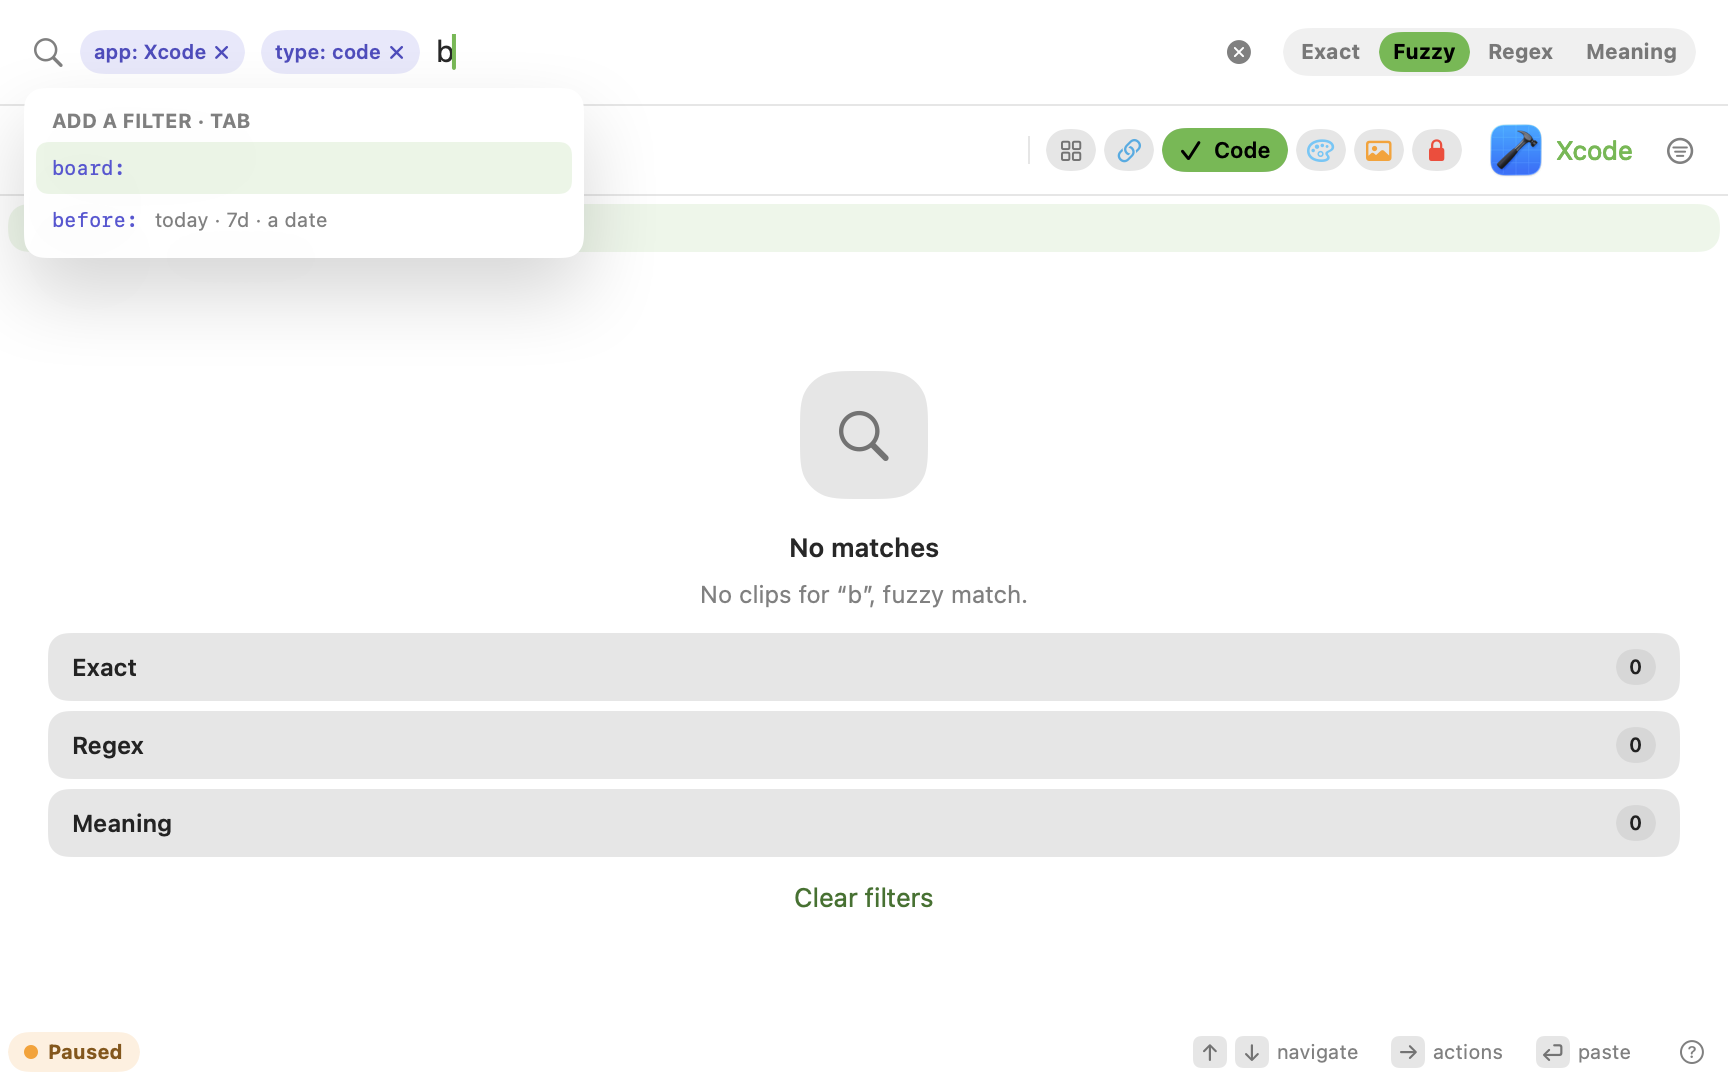
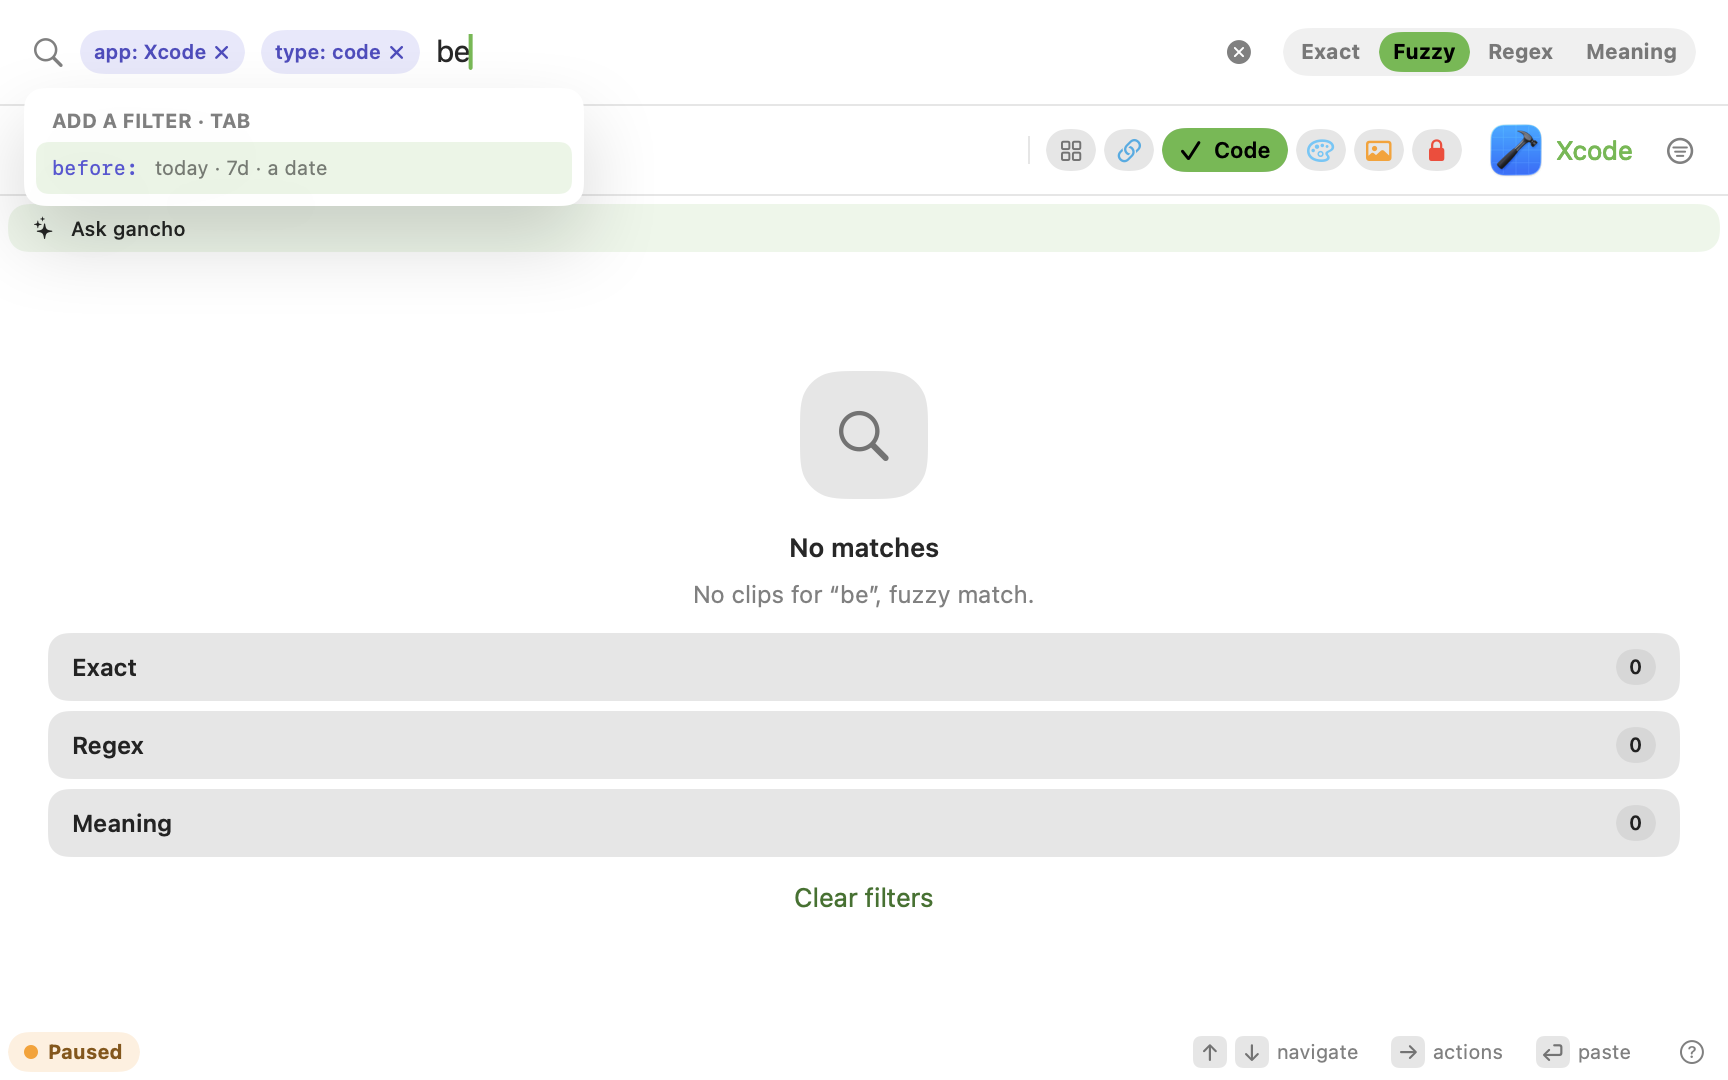
fix(search): review round for phase 4 (GC-V4-1, GC-08, GC-07)
- Clear filters also clears the device:, before: and pinned filters. Before,
  a token-only filter kept the list empty and the button in place.
- Turning Private Mode on, or semantic search off, while Meaning is selected
  falls back to Fuzzy, instead of leaving a hidden mode that answered nothing.
- No-results alternatives are keyed to the query they answer, so a stale
  probe never shows, or applies with ↓, for the next keystroke.
- Filter keys are offered from the second letter, so ordinary words no
  longer open the popover or take Tab (owner decision).
- A new auto-off choice applies to the Private Mode already on: the deadline
  moves to its start plus the new duration (owner decision).
- Mode titles are one LocalizedStringResource each instead of three mappings.
- filterOnlySearch's filter check is split in three, so the CI toolchain
  type-checks it in time.

Changed region(s): [[0.0, 0.1528, 0.3438, 0.2444], [0.4062, 0.5194, 0.5938, 0.5806], [0.25, 0.0306, 0.2812, 0.0611]]

diff --git a/Apps/GanchoMac/PanelView.swift b/Apps/GanchoMac/PanelView.swift
@@ -80,8 +80,10 @@ struct PanelView: View {
     @State private var panelOpenCount = 0
     /// The `device:` token's choices, read when the panel opens.
     @State private var deviceNames: [String] = []
-    /// The other modes and scopes, counted, while the query matches nothing.
+    /// The other modes and scopes, counted, while the query matches nothing,
+    /// with the query they answer so a stale probe never shows for a new one.
     @State private var alternatives: [PanelAlternativeResult] = []
+    @State private var alternativesKeyFound: PanelAlternativesKey?
     /// Re-read when defaults change, so a newly recorded shortcut shows at once.
     @State private var privateModeShortcut = KeyboardShortcuts.getShortcut(
         for: .togglePrivateMode)?.description
@@ -355,13 +357,15 @@ struct PanelView: View {
                 cancelPendingPaste()
             }
             .onChange(of: search.meaningEnabled) { _, _ in Task { await search.refresh() } }
-            .onChange(of: model.preferences.isPrivateModePaused) { _, _ in
+            .onChange(of: model.preferences.isPrivateModePaused) { _, paused in
+                search.meaningAvailabilityChanged(!paused && model.intelligence.semanticSearch)
                 search.cancelMeaningSearch()
                 Task { await search.refresh() }
             }
             .onChange(of: model.intelligence.semanticSearch) { _, enabled in
                 search.cancelMeaningSearch()
-                if !enabled { search.meaningEnabled = false }
+                search.meaningAvailabilityChanged(
+                    enabled && !model.preferences.isPrivateModePaused)
                 Task { await search.refresh() }
             }
             .onChange(of: search.mode) { _, _ in Task { await search.refresh() } }
@@ -785,7 +789,7 @@ struct PanelView: View {
                     groups: search.groups,
                     items: search.filtered,
                     searchMode: search.searchMode,
-                    alternatives: alternatives,
+                    alternatives: currentAlternatives,
                     scopeName: selectedBoardName,
                     applyAlternative: { search.apply($0) },
                     isPrivateMode: model.preferences.isPrivateModePaused,
@@ -793,11 +797,7 @@ struct PanelView: View {
                     layout: layout,
                     columns: galleryColumns,
                     onColumnsChange: { galleryColumns = $0 },
-                    clearFilters: {
-                        search.kindFilter = .all
-                        search.selectedBoardID = nil
-                        search.selectedSourceAppBundleID = nil
-                    },
+                    clearFilters: { search.clearFilters() },
                     importHistory: { presentedSheet = .importHistory },
                     onUserScroll: { search.endNewestFollow() },
                     row: { item in clipRow(item: item) })
@@ -1421,8 +1421,12 @@ struct PanelView: View {
         }
     }
 
+    private var currentAlternatives: [PanelAlternativeResult] {
+        alternativesKeyFound == alternativesKey ? alternatives : []
+    }
+
     private var bestAlternative: PanelAlternativeResult? {
-        search.filtered.isEmpty ? PanelAlternativeResult.best(of: alternatives) : nil
+        search.filtered.isEmpty ? PanelAlternativeResult.best(of: currentAlternatives) : nil
     }
 
     private var selectedBoardName: String? {
@@ -1443,6 +1447,7 @@ struct PanelView: View {
 
     /// Debounced like a keystroke: only a query that stays empty is probed.
     private func probeAlternatives() async {
+        let key = alternativesKey
         alternatives = []
         guard search.filtered.isEmpty, !search.query.isEmpty,
             search.meaning.status != .loading
@@ -1454,6 +1459,7 @@ struct PanelView: View {
                 && !model.preferences.isPrivateModePaused)
         guard !Task.isCancelled else { return }
         alternatives = found
+        alternativesKeyFound = key
     }
 
     private func refreshDeviceNames() async {

diff --git a/Apps/GanchoMac/PanelNoResults.swift b/Apps/GanchoMac/PanelNoResults.swift
@@ -17,7 +17,7 @@ struct PanelAlternativesKey: Equatable {
 }
 
 extension PanelSearchAlternative {
-    var title: LocalizedStringKey {
+    var title: LocalizedStringResource {
         switch self {
         case .mode(let mode): mode.title
         case .allBoards: "All boards"
@@ -38,16 +38,6 @@ extension PanelSearchAlternative {
         switch self {
         case .mode(let mode): "no-results-alt-\(mode.rawValue)"
         case .allBoards: "no-results-alt-all-boards"
-        }
-    }
-
-    var localizedTitle: String {
-        switch self {
-        case .mode(.exact): String(localized: "Exact")
-        case .mode(.fuzzy): String(localized: "Fuzzy")
-        case .mode(.regex): String(localized: "Regex")
-        case .mode(.meaning): String(localized: "Meaning")
-        case .allBoards: String(localized: "All boards")
         }
     }
 }
@@ -108,7 +98,8 @@ struct PanelAlternativeList: View {
                 }
                 .buttonStyle(.plain)
                 .accessibilityLabel(
-                    Text(verbatim: "\(result.alternative.localizedTitle), \(result.total)")
+                    Text(
+                        verbatim: "\(String(localized: result.alternative.title)), \(result.total)")
                 )
                 .accessibilityAddTraits(isBest ? .isSelected : [])
                 .accessibilityIdentifier(result.alternative.identifier)
@@ -126,7 +117,7 @@ struct PanelAlternativeStage: View {
     var body: some View {
         VStack(alignment: .leading, spacing: GanchoTokens.Spacing.xs) {
             Text(
-                verbatim: result.alternative.localizedTitle + " · "
+                verbatim: String(localized: result.alternative.title) + " · "
                     + String(localized: "\(result.total) results, press ↓ to use them")
             )
             .panelFont(.caption, .bold)

diff --git a/Packages/GanchoKit/Tests/GanchoAppCoreTests/CaptureLifecycleControllerTests.swift b/Packages/GanchoKit/Tests/GanchoAppCoreTests/CaptureLifecycleControllerTests.swift
@@ -114,6 +114,30 @@
             #expect(controller.preferences.privateModeEndsAt == nil)
         }
 
+        @Test("A new auto-off choice moves the current deadline from its start")
+        func privateModeDurationChangeAppliesNow() {
+            let monitor = CaptureMonitorSpy()
+            let recorder = CaptureLifecycleRecorder()
+            recorder.privateModeDuration = nil
+            let controller = makeController(monitor: monitor, recorder: recorder)
+            controller.togglePrivateMode()
+            let start = recorder.now
+            #expect(controller.preferences.privateModeEndsAt == nil)
+
+            recorder.now = start.addingTimeInterval(600)
+            recorder.privateModeDuration = 900
+            controller.privateModeDurationChanged()
+            #expect(controller.preferences.privateModeEndsAt == start.addingTimeInterval(900))
+            #expect(controller.preferences.isPrivateModePaused)
+
+            recorder.privateModeDuration = 300
+            controller.privateModeDurationChanged()
+            #expect(!controller.preferences.isPrivateModePaused, "a deadline already past ends it")
+
+            controller.privateModeDurationChanged()
+            #expect(!controller.preferences.isPrivateModePaused, "off stays off")
+        }
+
         @Test(
             "A deadline that passed while the app was closed ends Private Mode before capture starts"
         )

diff --git a/Packages/GanchoKit/Sources/GanchoKit/SourceApps.swift b/Packages/GanchoKit/Sources/GanchoKit/SourceApps.swift
@@ -8,13 +8,14 @@ extension GRDBClipboardStore {
     /// An entirely empty request preserves the historical `search("") == []`
     /// behavior instead of turning search into a second unfiltered list API.
     func filterOnlySearch(_ query: ClipSearchQuery, limit: Int) async throws -> [ClipItem] {
-        let hasFilter =
+        // Split so the type checker stays within its time limit on older toolchains.
+        let narrowsByValue: Bool =
             query.kinds?.isEmpty == false || query.sourceAppBundleID != nil
-            || query.dateRange != nil || query.createdBefore != nil || query.deviceName != nil
-            || query.boardID != nil
-            || query.pinnedOnly || query.markedOnly || query.includedIDs != nil
-            || query.excludesSensitive
-        guard hasFilter else { return [] }
+            || query.boardID != nil || query.includedIDs != nil
+        let narrowsByTime: Bool =
+            query.dateRange != nil || query.createdBefore != nil || query.deviceName != nil
+        let narrowsByFlag: Bool = query.pinnedOnly || query.markedOnly || query.excludesSensitive
+        guard narrowsByValue || narrowsByTime || narrowsByFlag else { return [] }
 
         return try await writer.read { db in
             var sql = "SELECT \(ClipRow.metadataSelectionSQL) FROM clip WHERE clip.isArchived = 0"

diff --git a/Packages/GanchoKit/Tests/GanchoAppCoreTests/PanelSearchTokenTests.swift b/Packages/GanchoKit/Tests/GanchoAppCoreTests/PanelSearchTokenTests.swift
@@ -102,4 +102,29 @@ struct PanelSearchTokenTests {
         #expect(rule.deviceName == "MacBook Pro")
         #expect(rule.createdBefore == cutoff)
     }
+
+    @Test func clearFiltersAlsoClearsTokenFilters() {
+        let model = PanelSearchModel(source: TokenSource())
+        model.apply(.device("MacBook Pro"))
+        model.apply(.before(Date(timeIntervalSince1970: 0)))
+        model.apply(.type(.code))
+        model.apply(.app(bundleID: "com.apple.dt.Xcode"))
+        model.selectedBoardID = UUID()
+        model.pinnedOnly = true
+        model.clearFilters()
+        #expect(!model.hasActiveFilter)
+        #expect(model.deviceName == nil && model.createdBefore == nil)
+    }
+
+    @Test func losingMeaningFallsBackToFuzzy() {
+        let model = PanelSearchModel(source: TokenSource())
+        model.searchMode = .meaning
+        model.meaningAvailabilityChanged(true)
+        #expect(model.searchMode == .meaning)
+        model.meaningAvailabilityChanged(false)
+        #expect(model.searchMode == .fuzzy)
+        model.searchMode = .regex
+        model.meaningAvailabilityChanged(false)
+        #expect(model.searchMode == .regex, "other modes are left alone")
+    }
 }

diff --git a/Packages/GanchoKit/Sources/GanchoAppCore/CaptureLifecycleController.swift b/Packages/GanchoKit/Sources/GanchoAppCore/CaptureLifecycleController.swift
@@ -158,6 +158,17 @@
             preferences.privateModeSkippedCopies += 1
         }
 
+        /// A new auto-off choice applies to the Private Mode already on: the
+        /// deadline moves to its start plus the new duration.
+        public func privateModeDurationChanged() {
+            guard preferences.isPrivateModePaused, let start = preferences.privateModeStartedAt
+            else { return }
+            preferences.privateModeEndsAt = privateModeDuration().map {
+                start.addingTimeInterval($0)
+            }
+            expirePrivateModeIfDue()
+        }
+
         /// Turns Private Mode off once its deadline passes. Runs on the status
         /// timer, so it fires within half a second of the deadline.
         func expirePrivateModeIfDue() {

diff --git a/Packages/GanchoKit/Sources/GanchoAppCore/PanelSearchModel+Tokens.swift b/Packages/GanchoKit/Sources/GanchoAppCore/PanelSearchModel+Tokens.swift
@@ -13,6 +13,22 @@ extension PanelSearchModel {
         }
     }
 
+    /// Clears every filter that narrows the list, tokens included.
+    public func clearFilters() {
+        kindFilter = .all
+        selectedBoardID = nil
+        selectedSourceAppBundleID = nil
+        pinnedOnly = false
+        deviceName = nil
+        createdBefore = nil
+    }
+
+    /// Meaning hides while semantic search is off or Private Mode is on; a
+    /// panel left in it would answer every query with nothing.
+    public func meaningAvailabilityChanged(_ available: Bool) {
+        if !available, searchMode == .meaning { searchMode = .fuzzy }
+    }
+
     /// Sets the filter a token resolved to.
     public func apply(_ filter: SearchTokenFilter) {
         switch filter {

diff --git a/Tests/GanchoUITests/DesignV4SnapshotUITests.swift b/Tests/GanchoUITests/DesignV4SnapshotUITests.swift
@@ -237,10 +237,10 @@ final class DesignV4SnapshotUITests: XCTestCase {
             break
         case .tokens:
             // Chips for app and type, then a key prefix that opens the popover.
-            // Typed straight in: the field keeps only the "b" the chips leave.
+            // Typed straight in: the field keeps only the "be" the chips leave.
             try SynthesizedInput.requireForeground(app)
             field.click()
-            field.typeText("app:xcode type:code b")
+            field.typeText("app:xcode type:code be")
         case .noResults:
             // Fuzzy finds nothing for a pattern only a regex reads.
             try typeTextReliably("sour.e", into: field, in: app)

diff --git a/Packages/GanchoKit/Tests/GanchoAppCoreTests/SearchTokensTests.swift b/Packages/GanchoKit/Tests/GanchoAppCoreTests/SearchTokensTests.swift
@@ -62,7 +62,9 @@ struct SearchTokensTests {
     @Test("Tab completes a key prefix, then a value for that key")
     func completions() {
         #expect(parser.completions(for: "greeting ty") == [.key(.type)])
-        #expect(parser.completions(for: "b") == [.key(.board), .key(.before)])
+        #expect(parser.completions(for: "b").isEmpty, "one letter starts too many words")
+        #expect(parser.completions(for: "bo") == [.key(.board)])
+        #expect(parser.completions(for: "x be") == [.key(.before)])
         #expect(
             parser.completions(for: "x app:sa")
                 == [.value(.app, SearchTokenCandidate(title: "Safari", value: "com.apple.Safari"))])

diff --git a/Apps/GanchoMac/AppModel.swift b/Apps/GanchoMac/AppModel.swift
@@ -266,7 +266,10 @@ final class AppModel {
     /// history). Turning it off wipes Gancho's Spotlight domain immediately.
     /// How long a new Private Mode lasts before capture resumes by itself.
     var privateModeAutoOff: PrivateModeAutoOff {
-        didSet { defaults.set(privateModeAutoOff.rawValue, forKey: PrivateModeAutoOff.defaultsKey) }
+        didSet {
+            defaults.set(privateModeAutoOff.rawValue, forKey: PrivateModeAutoOff.defaultsKey)
+            captureLifecycle.privateModeDurationChanged()
+        }
     }
 
     var spotlightIndexing: Bool {

diff --git a/Packages/GanchoKit/Sources/GanchoAppCore/SearchTokens.swift b/Packages/GanchoKit/Sources/GanchoAppCore/SearchTokens.swift
@@ -73,6 +73,8 @@ public struct SearchTokenParser: Sendable {
             let partial = String(word[word.index(after: colon)...])
             return matches(partial, for: key).map { .value(key, $0) }
         }
+        // One letter starts too many ordinary words to offer keys on.
+        guard word.count >= 2 else { return [] }
         return SearchTokenKey.allCases.filter { $0.rawValue.hasPrefix(word) }.map { .key($0) }
     }
 

diff --git a/Apps/GanchoMac/PanelSearchTokens.swift b/Apps/GanchoMac/PanelSearchTokens.swift
@@ -4,7 +4,7 @@ import GanchoKit
 import SwiftUI
 
 extension PanelSearchMode {
-    var title: LocalizedStringKey {
+    var title: LocalizedStringResource {
         switch self {
         case .exact: "Exact"
         case .fuzzy: "Fuzzy"
